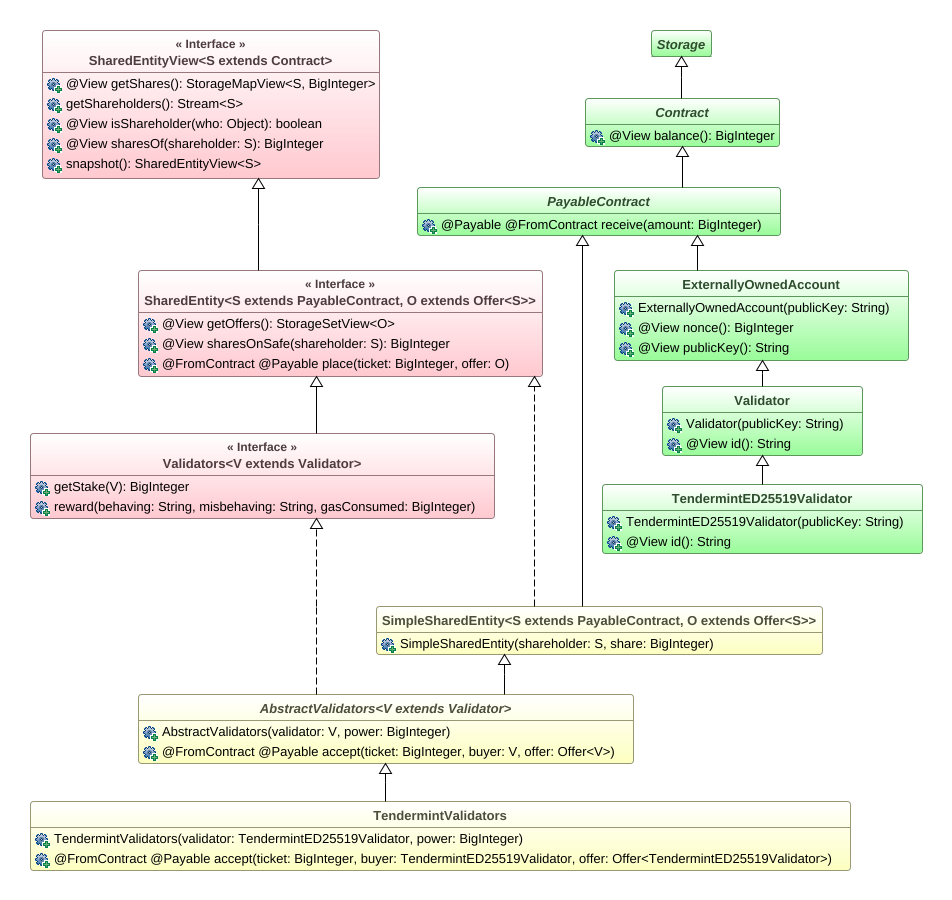
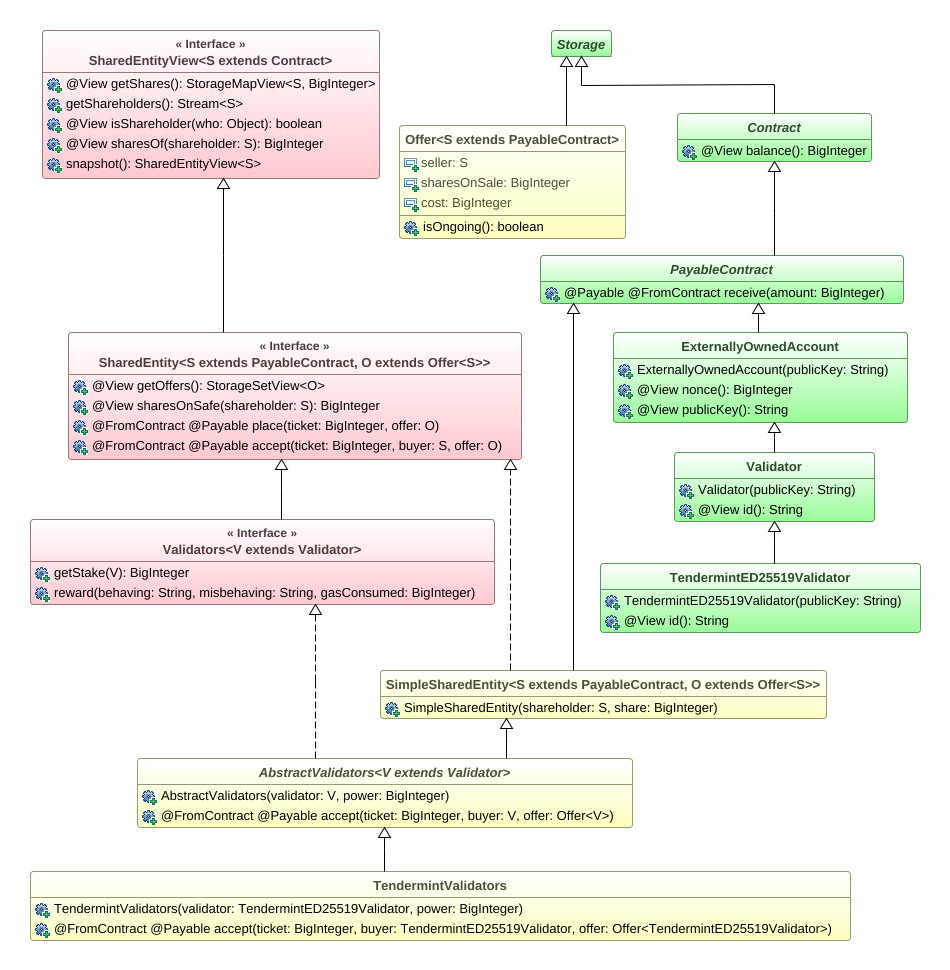
Edited the shared entity description

diff --git a/cluster_computing/020_shared_entities_with_generics.tex b/cluster_computing/020_shared_entities_with_generics.tex
@@ -12,19 +12,20 @@ where shares represent their voting power and remuneration percentage.
 \begin{figure}[ht]
   \begin{center}
     \begin{lstlisting}[language=Takamaka]
-public interface SharedEntity<S extends PayableContract,
-                              O extends Offer<S>> {
+public interface SharedEntity<S extends PayableContract, O extends Offer<S>>
+      extends SharedEntityView<S> {
 
   @View
-  BigInteger sharesOf(S shareholder);
+  StorageSetView<O> getOffers();
+
+  @View
+  BigInteger sharesOnSaleOf(S shareholder);
 
   @FromContract(PayableContract.class) @Payable
-  void place(BigInteger amount, O offer);
+  void place(BigInteger ticket, O offer);
 
   @FromContract(PayableContract.class) @Payable
-  void accept(BigInteger amount, S buyer, O offer);
-
-  List<S> getShareholders();
+  void accept(BigInteger ticket, S buyer, O offer);
 
   class Offer<S extends PayableContract> extends Storage {
     public final S seller;
@@ -50,48 +51,58 @@ public interface SharedEntity<S extends PayableContract,
 }
     \end{lstlisting}
   \end{center}
-  \caption{A simplified part of our shared entity interface.
-  Its full code is available at \textsf{\url{https://github.com/Hotmoka/hotmoka/blob/master/io-takamaka-code/src/main/java/io/takamaka/code/dao/SharedEntity.java}}.}\label{fig:shared_entity}
+  \caption{A simplified part of our shared entity interface.}\label{fig:shared_entity}
 \end{figure}
 
 In general, two concepts are specific to each implementation of shared entities:
 who are the potential shareholders and how offers for selling shares work.
 Therefore, one can parameterize the interface of a shared entity with two type variables:
-\<S> is the type of the shareholders and \<O> is the type of the offers for selling shares.
+\<S> is the type of the shareholders and \<O> is the type of the sale offers of shares.
 
-We are developing for the Hotmoka blockchain, that uses smart contracts written in a subset
-of Java called Takamaka.
-Fig.~\ref{fig:shared_entity} shows a simplification of our interface for shared entities.
+The \<SharedEntityView> interface at the top of the hierarchy in Fig.~\ref{fig:hierarchy-entities}
+defines the read-only operations on a shared entity. This view is \emph{static}, in the sense that it
+does not specify the operations for transfers of shares. Therefore, its only type parameter is \<S>:
+any contract can play the role of the type for the shareholders of the entity.
+Method \<getShares> yields a snapshot of the
+current shares of the entity (who owns how much). Method \<getShareholders> yields the shareholders.
+It is not \<@View>, since it creates a new stream, which is a side-effect.
+Method \<isShareholder> checks if an object is a shareholder. Method \<sharesOf> yields
+the number of shares of a shareholder. As typical in Takamaka, a \<snapshot> method allows one
+to create a frozen read-only copy of an entity (in constant time), useful when an enity must be queried from
+a client without the risk of race conditions if another client is modifying the same entity concurrently.
+
+The \<SharedEntity> subinterface adds methods for transfer of shares
+(see Fig.~\ref{fig:shared_entity}).
 It includes an inner class \<Offer> that models sale offers:
 it specifies who is the seller of the shares,
 how many shares are being sold, the requested price and the expiration of the offer.
 Method \<isOngoing> checks if an offer has not expired yet.
 Implementations can subclass \<Offer> if they need more specific offers.
-By using class \<Offer>, the \<SharedEntity> interface specifies four methods.
-Method \<sharesOf> allows one to know how many shares a potential \<shareholder> (of type \<S>) holds.
-It is annotated as \<@View>. In Takamaka, this means that its execution can be performed
-\emph{for free}, without paying gas, since it has no side-effects. Who wants to sell
-(some of) its shares calls method \<place> with a sale \<offer>.
-This method is annotated as \<@Payable> since
-implementations are allowed to require a payment of \<amount> coins for managing the sale.
-Who buys the shares calls method \<accept> with the accepted \<offer>
+Offers can be placed on sale
+by calling the \<place> method with a sale \<offer>.
+This method is annotated as \<@FromContract> since the caller must be
+identified (or otherwise anybody could sell the shares of anybody else) and
+as \<@Payable> so that implementations can require
+to pay a \<ticket> to place shares on sale.
+The sale offer is passed as a parameter to \<place>, hence it must have been created before calling that method.
+The set of all sale offers is available through \<getOffers>. Method \<sharesOnSale> yields the
+cumulative number of shares on sale for a given shareholder.
+Who wants to buy shares calls method \<accept> with the accepted \<offer>
 and with itself as \<buyer> (the reason will be explained soon)
 and becomes a new shareholder or increases
 its cumulative number of shares (if it was a shareholder already).
-Also this method is \<@Payable>, since its caller must pay \<amount> $\ge$ \<offer.cost>
+Also this method is \<@Payable>, since its caller must pay \<ticket> $\ge$ \<offer.cost>
 coins to the seller.
 This means that shareholders must be able to receive payments and that
-is why \<S extends PayableContract>: the \<PayableContract>s, in Takamaka, are those that can receive
-payments.
-Method \<getShareholders> yields the list of the current shareholders of the entity.
-It is not \<@View>, since it creates a new list, which is a side-effect.
+is why \<S extends PayableContract>: only \<PayableContract>s are guaranteed to have a
+\<receive> method in Takamaka.
 
-The annotation \<@FromContract> on both \<place> and \<accept> enforces that only
+As said before, the annotation \<@FromContract> on both \<place> and \<accept> enforces that only
 contracts can call these methods.
 These callers must be (old or new) shareholders,
-hence they must have type \<S>. In Takamaka, this could be written
-as \<@FromContract(S.class)>. Unfortunately, Java does not allow a generic type variable \<S>
-in \<S.class>. Due to this syntactical limitation of Java,
+hence they must have type \<S>. Therefore, one would like to write
+\<@FromContract(S.class)>. Unfortunately, Java does not allow a generic type variable \<S>
+in the syntax \<S.class>. Due to this syntactical limitation of Java,
 the best we could write in Fig.~\ref{fig:shared_entity} is \<@FromContract(PayableContract.class)>,
 which allows \emph{any} \<PayableContract> to call these methods, not just those of type \<S>.
 Since the syntax of the language does not support our abstraction, we will have to
@@ -99,14 +110,16 @@ program explicit dynamic checks in code, as shown later, and this will be the re
 parameter \<buyer> in \<accept>.
 
 Let us state an important property about shared entities:
-
-%\begin{tcolorbox}
+%
+\vspace{2ex}
+\begin{mdframed}[leftmargin=10pt,rightmargin=10pt]
   \begin{center}\emph{Consistency of Shareholders}\end{center}
+  \noindent
   If \<se> is a {\codesize\texttt{SharedEntity<S,O>}}
-  then the elements contained in the list \<se.getShareholders()> have type \<S>.
-%\end{tcolorbox}
-
-\noindent
+  then \<se.getShareholders()> contains only elements of type \<S>.
+\end{mdframed}
+\vspace{2ex}
+%
 This property is important since it states that we can trust the type \<S> of
 the shareholders: if we create a \<SharedEntity> and fix a specific type \<S>
 for its shareholders, then only instances of \<S> will actually manage to become shareholders.

diff --git a/cluster_computing/017_takamaka.tex b/cluster_computing/017_takamaka.tex
@@ -57,7 +57,7 @@ is used, then each validator node of the blockchain must specify a
 banking account where the validation rewards of the node get accumulated (see Fig.~\ref{fig:validator}).
 It is a special externally owned account, with an extra \<id> method that provides the
 identifier of the validator node inside the blockchain network. This identifier depends from the
-specific blockchain implementation.
+specific network.
 For instance, the subclass
 \<io.takamaka.code.governance.tendermint.TendermintED25519Validator>
 implements \<id> as for the Tendermint blockchain engine, that is,

diff --git a/cluster_computing/000_main.tex b/cluster_computing/000_main.tex
@@ -80,6 +80,7 @@
 \usepackage{relsize}
 %\usepackage{tcolorbox}
 %\usepackage{svg}
+\usepackage[linewidth=1pt]{mdframed}
 
 % \newcommand{\orcid}[1]{\href{https://orcid.org/#1}{\includesvg[height = 2ex]{svg-inkscape/ORCID_iD}}}
 
